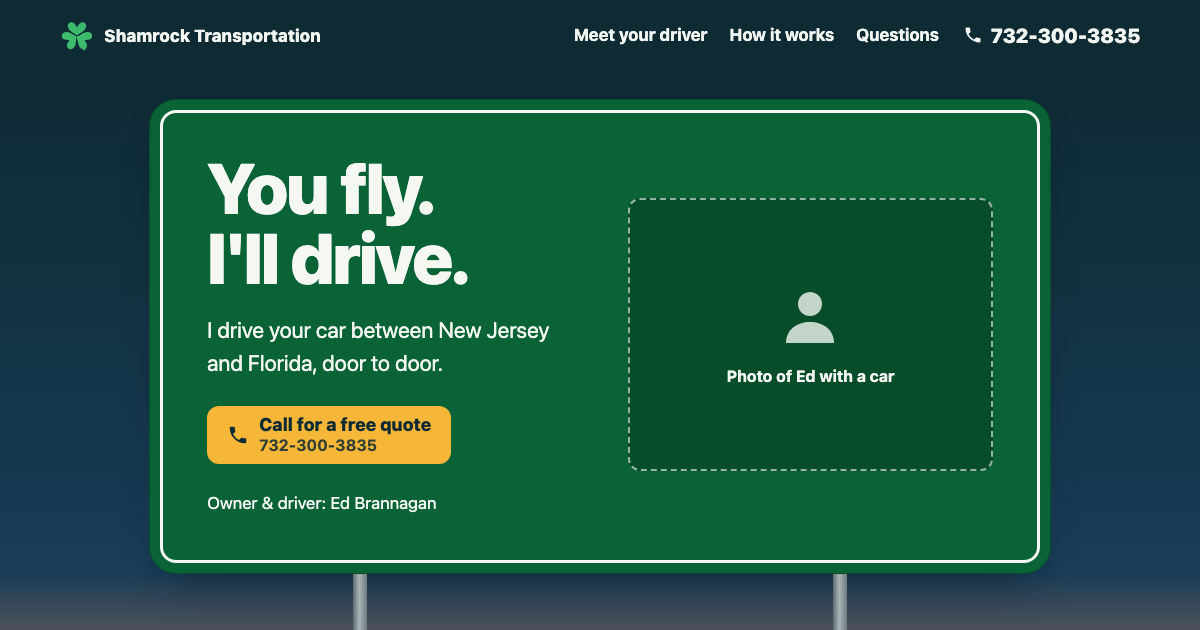
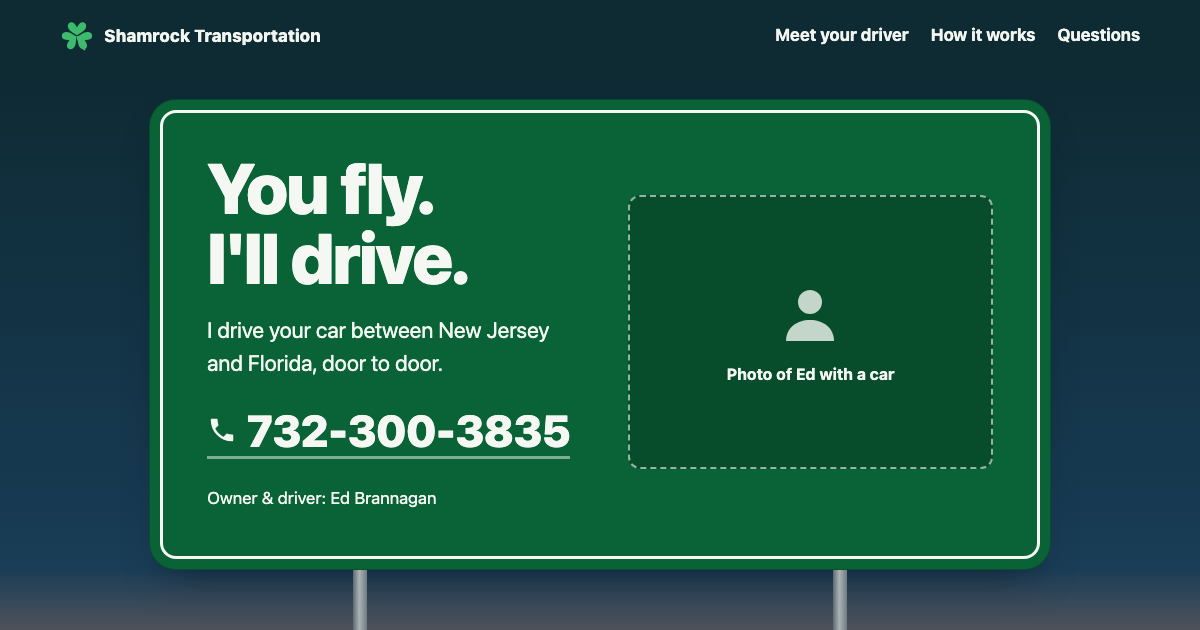
Hero: the call is the phone number lettered on the sign; drop the header number
Claude-Session: https://claude.ai/code/session_01BJFLxWBzKxTPZcsxj4Hb51

diff --git a/index.html b/index.html
@@ -53,11 +53,9 @@ p{margin:0}
 .brand{display:flex;align-items:center;gap:10px;text-decoration:none;margin-right:auto;border-radius:8px}
 .brand svg{width:34px;height:34px;flex:none;color:var(--leaf)}
 .nav{gap:22px}
-.nav a,.bar-phone{color:var(--on-dark);text-decoration:none;font-weight:700;font-size:17px;min-height:44px;display:inline-flex;align-items:center;border-bottom:2px solid transparent}
-.bar-phone{gap:8px;font-weight:850;font-size:20px}
-.bar-phone svg{width:20px;height:20px}
-@media (hover:hover){.nav a:hover,.bar-phone:hover{border-bottom-color:var(--focus)}}
-.nav,.bar-phone{display:none}
+.nav a{color:var(--on-dark);text-decoration:none;font-weight:700;font-size:17px;min-height:44px;display:inline-flex;align-items:center;border-bottom:2px solid transparent}
+@media (hover:hover){.nav a:hover{border-bottom-color:var(--focus)}}
+.nav{display:none}
 .bar b{font-size:17px;font-weight:800;letter-spacing:.01em;line-height:1.1}
 
 /* ---------- Hero ---------- */
@@ -76,7 +74,10 @@ p{margin:0}
 .hero h1{font-size:clamp(3rem,14vw,5.2rem);color:#f4f7f2;letter-spacing:-.02em;line-height:1}
 .hero h1 span{display:block}
 .hero-act{display:grid;gap:6px;margin-top:6px}
-.btn-wide{justify-content:flex-start;padding:0 22px;min-height:66px}
+/* The hero call is the number itself, lettered on the sign */
+.hero-call{justify-self:start;display:inline-flex;align-items:center;gap:10px;white-space:nowrap;font-size:clamp(26px,7.6vw,44px);font-weight:850;letter-spacing:-.01em;line-height:1.1;color:#f4f7f2;text-decoration:none;border-bottom:3px solid rgba(244,247,242,.5);padding-bottom:2px;min-height:48px}
+@media (hover:hover){.hero-call:hover{border-color:var(--amber)}}
+.hero-call svg{width:30px;height:30px;flex:none}
 .text-link{justify-self:start;display:inline-flex;align-items:center;min-height:48px;padding:0 4px;font-size:18px;font-weight:700;color:var(--on-dark);text-underline-offset:5px;text-decoration-thickness:2px}
 @media (hover:hover){.text-link:hover{text-decoration-color:var(--amber)}}
 .owner{font-size:17px;color:#f4f7f2;margin-top:6px;display:flex;align-items:center;gap:14px}
@@ -86,13 +87,9 @@ p{margin:0}
 .hero-photo{display:none}
 .promise{font-size:clamp(19px,5.2vw,22px);line-height:1.5;color:var(--on-dark);max-width:30ch}
 .ctas{display:grid;grid-template-columns:1fr;gap:10px}
-.two-line{display:flex;flex-direction:column;align-items:flex-start;line-height:1.2}
-.two-line small{font-size:16px;font-weight:700;opacity:.85}
 .btn{display:inline-flex;align-items:center;justify-content:center;gap:10px;min-height:58px;padding:0 18px;border-radius:12px;font-weight:800;font-size:18px;text-decoration:none;border:2px solid transparent;transition:background-color .2s,border-color .2s,transform .15s;white-space:nowrap;-webkit-tap-highlight-color:transparent}
 .btn svg{width:22px;height:22px;flex:none}
 .btn:active{transform:translateY(1px)}
-.btn-call{background:var(--amber);color:var(--ink);border-color:var(--amber)}
-@media (hover:hover){.btn-call:hover{background:#ffc75a;border-color:var(--focus)}}
 .btn-ghost{background:transparent;color:var(--on-dark);border-color:rgba(242,246,241,.55)}
 @media (hover:hover){.btn-ghost:hover{border-color:var(--focus);color:#fff}}
 
@@ -185,7 +182,7 @@ footer a{color:var(--on-dark);text-decoration-thickness:2px;text-underline-offse
   .hero .seam{margin-top:-64px}
   .hero-act{justify-items:start}
   .ctas{align-self:start;grid-template-columns:auto auto;justify-content:start}
-  .nav{display:flex}.bar-phone{display:inline-flex}
+  .nav{display:flex}
   footer{padding-bottom:40px}
   .road{height:260px}
   .pack-grid{grid-template-columns:1.1fr 1fr;align-items:center}
@@ -240,7 +237,6 @@ FINISH: unreviewed and undocumented is unfinished; this build ends with the fini
 <header class="bar">
   <a class="brand" href="#top" aria-label="Shamrock Transportation, back to top"><svg aria-hidden="true"><use href="#clover"/></svg><b>Shamrock Transportation</b></a>
   <nav class="nav" aria-label="Sections"><a href="#driver">Meet your driver</a><a href="#how">How it works</a><a href="#questions">Questions</a></nav>
-  <a class="bar-phone" href="tel:+17323003835"><svg aria-hidden="true"><use href="#phone"/></svg>732-300-3835</a>
 </header>
 
 <main id="top">
@@ -249,7 +245,7 @@ FINISH: unreviewed and undocumented is unfinished; this build ends with the fini
     <h1 id="hero-h"><span>You fly.</span><span>I'll drive.</span></h1>
     <p class="promise">I drive your car between New Jersey and Florida, door to door.</p>
     <div class="hero-act" id="heroCtas">
-      <a class="btn btn-call btn-wide" href="tel:+17323003835"><svg aria-hidden="true"><use href="#phone"/></svg><span class="two-line">Call for a free quote<small>732-300-3835</small></span></a>
+      <a class="hero-call" href="tel:+17323003835" aria-label="Call Ed for a free quote, 732-300-3835"><svg aria-hidden="true"><use href="#phone"/></svg>732-300-3835</a>
       <a class="text-link js-sms" href="sms:+17323003835">or send a text</a>
     </div>
     <!-- Placeholder until Ed sends a head-and-shoulders photo. Swap the svg for:

diff --git a/HANDOFF.md b/HANDOFF.md
@@ -6,11 +6,11 @@
 - **The look: a roadside scene on I-95 at dusk.** The hero is a green guide sign (shamrock green `#0a6337`, a green rim outside its white border) standing on two steel posts, seen down the road: dusk sky (night blue fading to twilight), a warm glow on the horizon, a treeline, and the road running toward the sign with white edge lines and an amber centre line. All of it is still; nothing moves. The hero is the only sign on the page. The rest of the page is pale aluminum and blue-green night (`#0e2a33`, not black). Amber only for Call buttons and road centre lines.
 - **Roadside sign hero (Ellie, 2026-10-15):** "make it look like it's actually a road sign on a road", with scenery outside the sign and the sign farther away. Scene parts: `.posts` (treeline, glow, posts at 30%/70% where the road edges meet the horizon) and `svg.ground` (grass, road). Sign size: `.hero-copy` margin/max-width.
 - **More color (Ellie, 2026-10-15: "I hate the lack of color"):** the hero became the green sign. The driver sign briefly went blue, then Ellie dropped it ("the blue goes with nothing and the repeated signs feel ugly"), so Meet your driver is now plain on aluminum.
-- **Quiet hero (Ellie, 2026-10-14):** headline, one line ("I drive your car between New Jersey and Florida, door to door."), one big "Call for a free quote / 732-300-3835" button, an "or send a text" link, and "Owner & driver: Ed Brannagan". No sign panel and no motion in the hero.
+- **Quiet hero (Ellie, 2026-10-14):** headline, one line ("I drive your car between New Jersey and Florida, door to door."), one big "Call for a free quote / 732-300-3835" button (since 2026-10-15: just the phone number, large, white and tap-to-call, lettered on the sign; Ellie found the yellow button "obnoxiously bright"), an "or send a text" link, and "Owner & driver: Ed Brannagan". No sign panel and no motion in the hero.
 - **The one moving part:** a short road strip just above the closing call. A packed cream car drives steadily south past "Welcome to Delaware … Florida" signs, house to house, pauses, then drives back north. Nothing else moves and nothing needs touching. Speed and spacing (`CRUISE`, `SEG`, `TREE_GAP`) are at the top of the road script.
 - **Section edges:** still dashed lane lines.
 - **Sections, following the 40–70 research brief (Ellie, 2026-10-14):**
-  - Header: name; on desktop also "Meet your driver / How it works / Questions" and the phone number.
+  - Header: name; on desktop also "Meet your driver / How it works / Questions". The header phone number was removed (Ellie, 2026-10-15); the number is in the hero sign right below.
   - Hero (above). **Two photo spots for Ed, both standing still (Ellie, 2026-10-15):** on desktop a wide "Photo of Ed with a car" placeholder fills the right half; on phones a small round face sits beside "Owner & driver". To add photos, swap each placeholder for the `<img>` line in the HTML comment above it: `ed-wide.jpg` (wide, 4:3) and `ed.jpg` (head and shoulders, used for both the round face and the sign).
   - Meet your driver: no sign, plain on the pale background. A dashed "Portrait of Ed" placeholder sits on an offset shamrock-green block (above the text on phones, beside it on desktop), then dark headline and text, and the phone number in shamrock green. Ed in his own words, tap-to-call number. To add the photo, drop `ed.jpg` in the folder and swap the placeholder for the `<img>` line in the HTML comment above it.
   - How it works: Call for a quote → Arrange pickup → Receive your car, beside What I do.
@@ -21,7 +21,7 @@
 - **Season-aware:** March–August the close reads "Heading home this spring?" and the car starts northbound.
 - **Contact:**
   - `tel:+17323003835` everywhere; the number is always visible as text.
-  - **Sticky Call button on phones (this site only, Ellie's call):** a small "Call Ed" pill at the bottom right. It appears once the hero button scrolls away and hides when the closing buttons are on screen. This is a deliberate exception to the no-sticky-bar house rule.
+  - **Sticky Call button on phones (this site only, Ellie's call):** a small "Call Ed" pill at the bottom right. It appears once the hero number scrolls away and hides when the closing number is on screen. It is still amber; if the yellow bothers Ellie here too, it could go green or white. This is a deliberate exception to the no-sticky-bar house rule.
   - "Send a text" opens a text that's already filled in: "Hi Ed, I'd like my car driven from ___ to ___ around ___." Hidden on computers, where `sms:` links do nothing.
 - **Page details:**
   - About 33 KB, single file, no photos.
@@ -64,7 +64,7 @@ Ellie: "too much, overwhelming, and confusing", so I kept the look and made it c
 - This deliberately overrides the house rules that the signature element reacts to touch and that the hero lets the visitor do the job. Ellie asked for it on this site; I haven't changed the house rules themselves.
 
 ## Research brief applied (Ellie, 2026-10-14)
-From Ellie's "Website UX Research & Design Brief, ages 40–70": kept the look, adopted the structure (Meet your driver, a 3-step How it works, Call for a free quote, phone number in the header and close, plain-text FAQ incl. cost) and the sticky Call pill. Not adopted, because the facts don't exist yet: reviews, insurance terms, credentials, what the price includes (fuel, tolls, lodging, return travel), years of experience, Ed's portrait. Each is a Thursday question. Fonts stay the system stack (the brief suggests Inter, Source Sans 3 or Atkinson Hyperlegible; swapping would be easy).
+From Ellie's "Website UX Research & Design Brief, ages 40–70": kept the look, adopted the structure (Meet your driver, a 3-step How it works, Call for a free quote, phone number in the hero and close, plain-text FAQ incl. cost) and the sticky Call pill. Not adopted, because the facts don't exist yet: reviews, insurance terms, credentials, what the price includes (fuel, tolls, lodging, return travel), years of experience, Ed's portrait. Each is a Thursday question. Fonts stay the system stack (the brief suggests Inter, Source Sans 3 or Atkinson Hyperlegible; swapping would be easy).
 
 ## Ideas not built (yours to pick)
 - **Runner-up look: "Departure board."** A split-flap airport board for "You fly", with NJ → FL flights and the car as the "arrival". Less touchable than the road.
